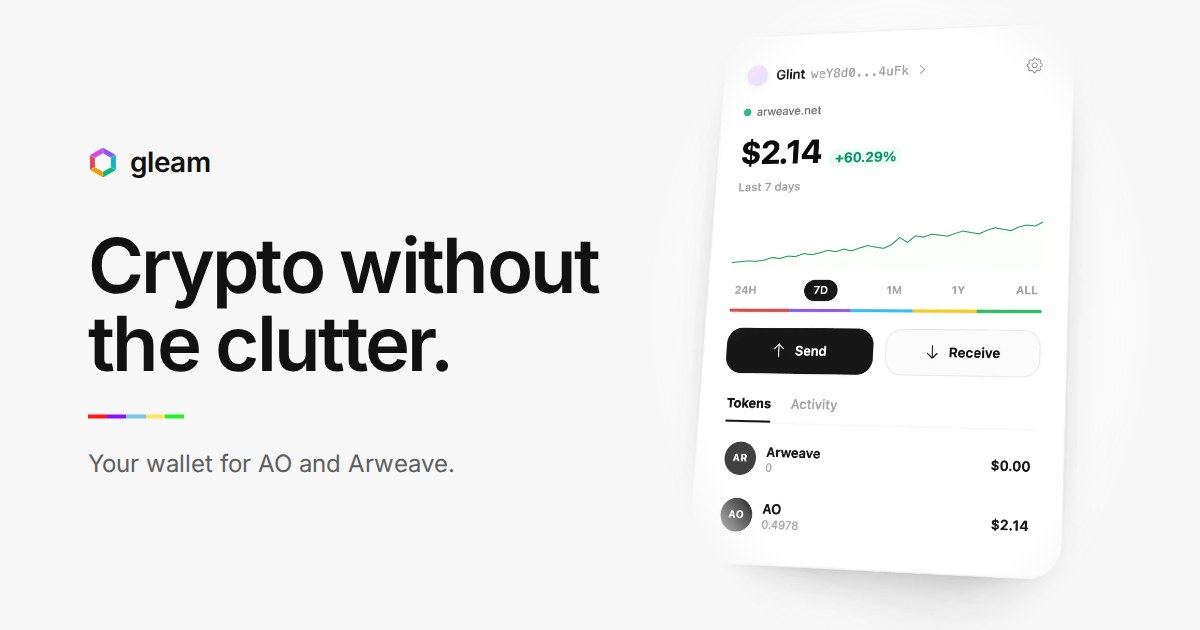
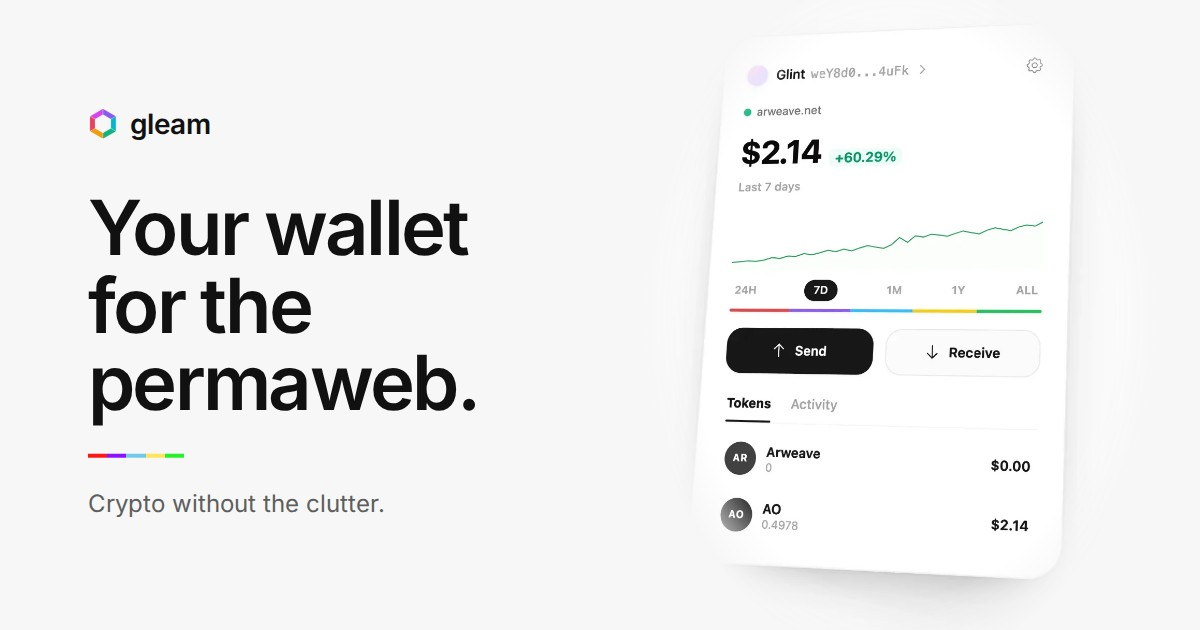
feat(site): regenerate the social card with the new headline
Claude-Session: https://claude.ai/code/session_01YZuScVeARYYTnAV73mqPDQ

Changed region(s): [[0.0617, 0.181, 0.4933, 0.6937], [0.0617, 0.6937, 0.37, 0.754], [0.0617, 0.7841, 0.3392, 0.8143]]

diff --git a/apps/site/index.html b/apps/site/index.html
@@ -15,18 +15,18 @@
   <meta property="og:title" content="Gleam: your wallet for the permaweb">
   <meta property="og:description" content="Gleam is a wallet for AO and Arweave. Built for simplicity.">
   <meta property="og:url" content="https://skyf0xx.github.io/gleam-arweave-ao-hyperbeam-wallet/">
-  <meta property="og:image" content="https://skyf0xx.github.io/gleam-arweave-ao-hyperbeam-wallet/img/og.jpg?v=3">
+  <meta property="og:image" content="https://skyf0xx.github.io/gleam-arweave-ao-hyperbeam-wallet/img/og.jpg?v=4">
   <meta property="og:image:width" content="1200">
   <meta property="og:image:height" content="630">
   <meta property="og:image:type" content="image/jpeg">
-  <meta property="og:image:alt" content="gleam: Crypto without the clutter. Your wallet for AO and Arweave. Beside it, the Gleam wallet home screen.">
+  <meta property="og:image:alt" content="gleam: Your wallet for the permaweb. Crypto without the clutter. Beside it, the Gleam wallet home screen.">
   <meta property="og:locale" content="en_US">
   <meta name="twitter:card" content="summary_large_image">
   <meta name="twitter:site" content="@gleam_wallet">
   <meta name="twitter:title" content="Gleam: your wallet for the permaweb">
   <meta name="twitter:description" content="Gleam is a wallet for AO and Arweave. Built for simplicity.">
-  <meta name="twitter:image" content="https://skyf0xx.github.io/gleam-arweave-ao-hyperbeam-wallet/img/og.jpg?v=3">
-  <meta name="twitter:image:alt" content="gleam: Crypto without the clutter. Your wallet for AO and Arweave. Beside it, the Gleam wallet home screen.">
+  <meta name="twitter:image" content="https://skyf0xx.github.io/gleam-arweave-ao-hyperbeam-wallet/img/og.jpg?v=4">
+  <meta name="twitter:image:alt" content="gleam: Your wallet for the permaweb. Crypto without the clutter. Beside it, the Gleam wallet home screen.">
   <link rel="preload" as="font" type="font/woff2" href="fonts/inter-var-latin.woff2" crossorigin>
   <link rel="preload" as="image" imagesrcset="img/dashboard-hero-502.webp 502w, img/dashboard-hero-1004.webp 1004w" imagesizes="(max-width: 900px) min(520px, 100vw), 45vw">
   <link rel="stylesheet" href="styles.css">

diff --git a/apps/site/privacy.html b/apps/site/privacy.html
@@ -15,7 +15,7 @@
   <meta property="og:title" content="Privacy: Gleam">
   <meta property="og:description" content="What the Gleam wallet and this website collect, store and send. Short version: we have no server.">
   <meta property="og:url" content="https://skyf0xx.github.io/gleam-arweave-ao-hyperbeam-wallet/privacy.html">
-  <meta property="og:image" content="https://skyf0xx.github.io/gleam-arweave-ao-hyperbeam-wallet/img/og.jpg?v=3">
+  <meta property="og:image" content="https://skyf0xx.github.io/gleam-arweave-ao-hyperbeam-wallet/img/og.jpg?v=4">
   <meta property="og:image:width" content="1200">
   <meta property="og:image:height" content="630">
   <meta property="og:image:type" content="image/jpeg">
@@ -25,7 +25,7 @@
   <meta name="twitter:site" content="@gleam_wallet">
   <meta name="twitter:title" content="Privacy: Gleam">
   <meta name="twitter:description" content="What the Gleam wallet and this website collect, store and send. Short version: we have no server.">
-  <meta name="twitter:image" content="https://skyf0xx.github.io/gleam-arweave-ao-hyperbeam-wallet/img/og.jpg?v=3">
+  <meta name="twitter:image" content="https://skyf0xx.github.io/gleam-arweave-ao-hyperbeam-wallet/img/og.jpg?v=4">
   <meta name="twitter:image:alt" content="gleam: Crypto without the clutter. Your wallet for AO and Arweave. Beside it, the Gleam wallet home screen.">
   <link rel="stylesheet" href="styles.css">
 </head>

diff --git a/apps/site/terms.html b/apps/site/terms.html
@@ -15,7 +15,7 @@
   <meta property="og:title" content="Terms: Gleam">
   <meta property="og:description" content="The terms for using the Gleam wallet.">
   <meta property="og:url" content="https://skyf0xx.github.io/gleam-arweave-ao-hyperbeam-wallet/terms.html">
-  <meta property="og:image" content="https://skyf0xx.github.io/gleam-arweave-ao-hyperbeam-wallet/img/og.jpg?v=3">
+  <meta property="og:image" content="https://skyf0xx.github.io/gleam-arweave-ao-hyperbeam-wallet/img/og.jpg?v=4">
   <meta property="og:image:width" content="1200">
   <meta property="og:image:height" content="630">
   <meta property="og:image:type" content="image/jpeg">
@@ -25,7 +25,7 @@
   <meta name="twitter:site" content="@gleam_wallet">
   <meta name="twitter:title" content="Terms: Gleam">
   <meta name="twitter:description" content="The terms for using the Gleam wallet.">
-  <meta name="twitter:image" content="https://skyf0xx.github.io/gleam-arweave-ao-hyperbeam-wallet/img/og.jpg?v=3">
+  <meta name="twitter:image" content="https://skyf0xx.github.io/gleam-arweave-ao-hyperbeam-wallet/img/og.jpg?v=4">
   <meta name="twitter:image:alt" content="gleam: Crypto without the clutter. Your wallet for AO and Arweave. Beside it, the Gleam wallet home screen.">
   <link rel="stylesheet" href="styles.css">
 </head>

diff --git a/docs/branding/og-card.html b/docs/branding/og-card.html
@@ -8,6 +8,7 @@
   .text .wordmark { font-size: 1.75rem; gap: 12px; }
   .text .wordmark img { width: 30px; height: 30px; }
   .text h1 { margin: 44px 0 0; font-weight: 600; font-size: 76px; line-height: 1.02; letter-spacing: -0.035em; color: var(--fg); }
+  .text h1 span { display: block; }
   .text .beam { margin-top: 32px; width: 96px; height: 4px; }
   .text p { margin: 28px 0 0; font-size: 24px; color: var(--muted); }
   .shot { position: absolute; right: 40px; top: -40px; width: 520px; }
@@ -16,9 +17,9 @@
 <body><div class="card">
   <div class="text">
     <span class="wordmark"><img src="../../apps/site/favicon.svg" alt="">gleam</span>
-    <h1>Crypto without the clutter.</h1>
+    <h1><span>Your wallet</span> <span>for the</span> <span>permaweb.</span></h1>
     <div class="beam"><span></span><span></span><span></span><span></span><span></span></div>
-    <p>Your wallet for AO and Arweave.</p>
+    <p>Crypto without the clutter.</p>
   </div>
   <div class="shot"><img src="../../apps/site/img/dashboard-hero-1004.webp" alt=""></div>
 </div></body></html>
